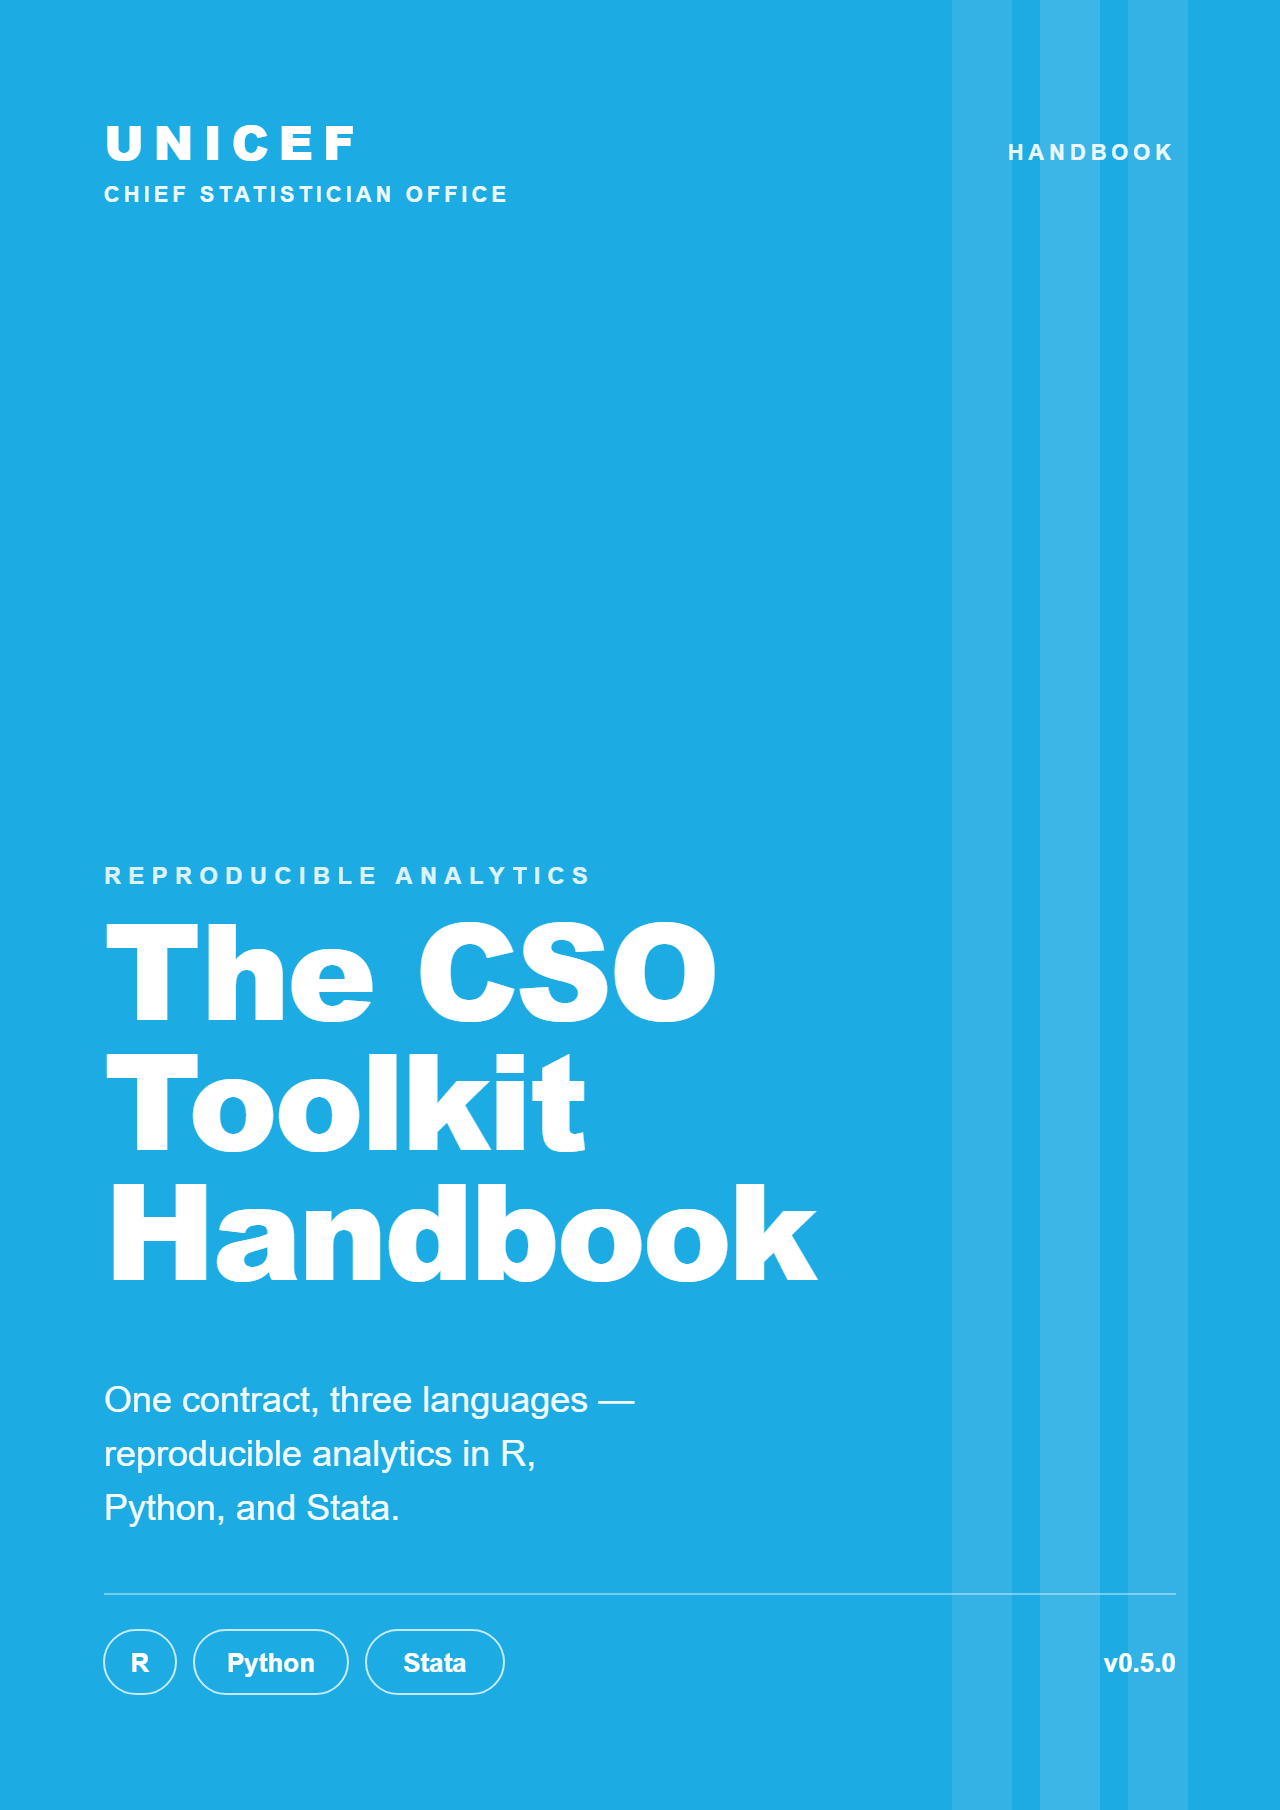
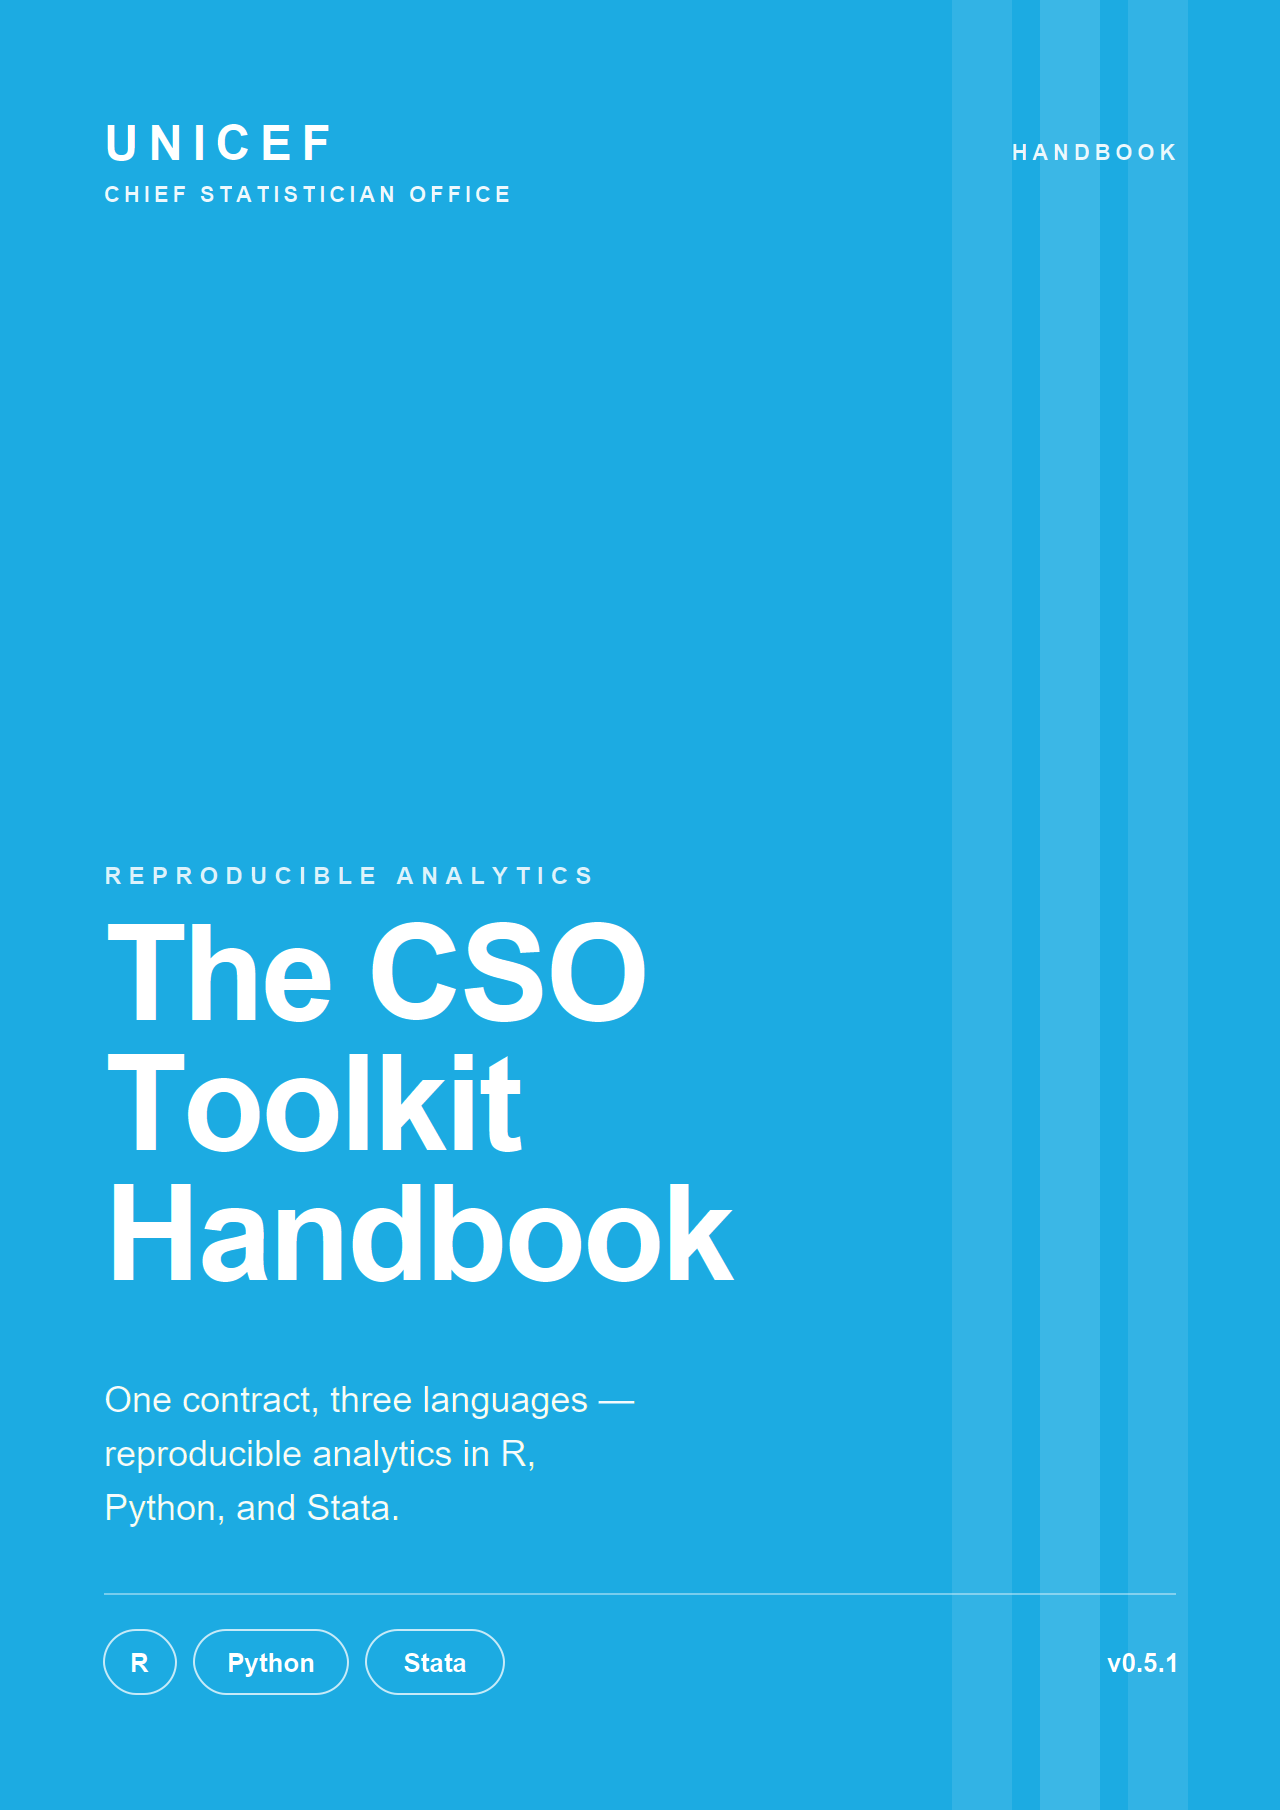
docs(handbook): regenerate cover to v0.5.1
generate-cover.js version chip 0.5.0 -> 0.5.1; cover-A.svg regenerated (node)
and cover-A.png re-rasterized from it (cairosvg, 1280x1810).

diff --git a/book/images/generate-cover.js b/book/images/generate-cover.js
@@ -32,7 +32,7 @@ const CONFIG = {
     'Python, and Stata.',
   ],
   chips: ['R', 'Python', 'Stata'],
-  version: 'v0.5.0',
+  version: 'v0.5.1',
 };
 
 // approximate pill width (px) for a chip label at 13px/600 Helvetica
